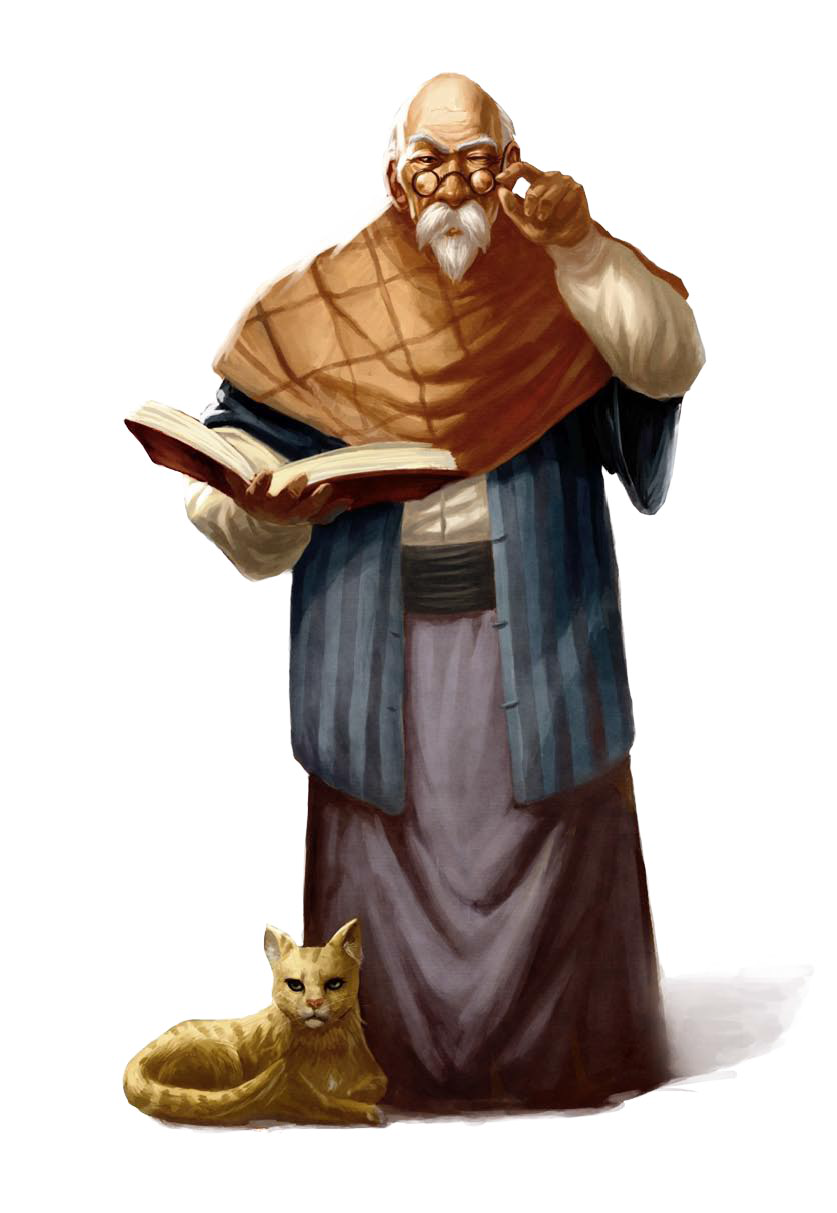
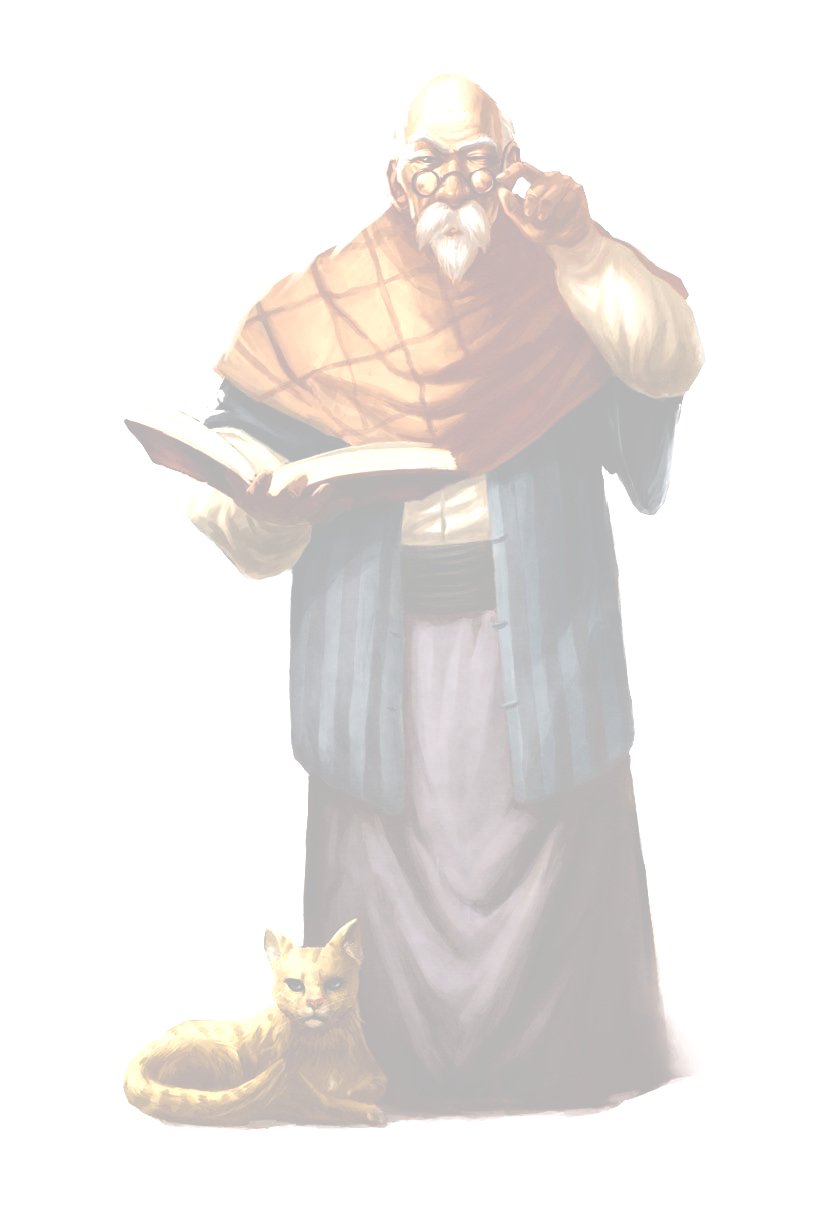
fixes asset_path;

diff --git a/app/assets/stylesheets/welcome.css.scss b/app/assets/stylesheets/welcome.css.scss
@@ -3,7 +3,7 @@
 // You can use Sass (SCSS) here: http://sass-lang.com/
 
 .welcome {
-  background-image: url('bugbear.jpeg');
+  background-image: url(asset_path('bugbear.jpeg'));
   background-position: 1% -75%;
   margin: 0;
 }
@@ -14,7 +14,7 @@
 }
 
 
-.ui.inverted.black.block.header {
+.ui.block.header {
   margin: 0;
   background-image: url(asset_path('dungeon.jpg'));
 }

diff --git a/app/assets/stylesheets/nerds.css.scss b/app/assets/stylesheets/nerds.css.scss
@@ -3,7 +3,13 @@
 // You can use Sass (SCSS) here: http://sass-lang.com/
 
 .nerds {
-  background-image: url('goblin.jpg');
+
+  background-image: url(asset_path('battleclank.png'));
   background-repeat:no-repeat;
-  background-position: 100% 1%;
+  background-position: 100% -35%;
+}
+
+.nerd_form {
+  padding: 20px;
+  
 }

diff --git a/app/assets/stylesheets/sessions.css.scss b/app/assets/stylesheets/sessions.css.scss
@@ -3,9 +3,13 @@
 // You can use Sass (SCSS) here: http://sass-lang.com/
 
 .signin {
-  background-image: url('nerds.png');
-  background-position: 0% 0%;
+  background-image: url(asset_path('nerds.png'));
+  background-position: 0% -20%;
     text-align: right;
+}
+
+.signin .content {
+  padding: 20px;
 }
 
 .signin h1 {

diff --git a/app/assets/stylesheets/games.css.scss b/app/assets/stylesheets/games.css.scss
@@ -8,8 +8,8 @@
 }
 
 .games {
-  background-image: url('froghemoth.png');
-  background-position: 140% -50%;
+  background-image: url(asset_path('librarian.png'));
+  background-position: 0% 20%;
 }
 
 .games .position {
